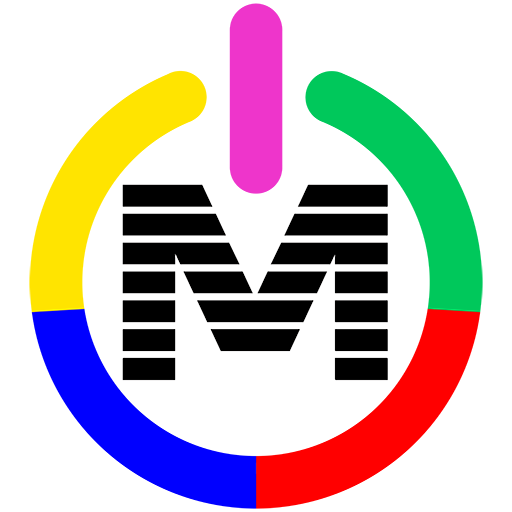
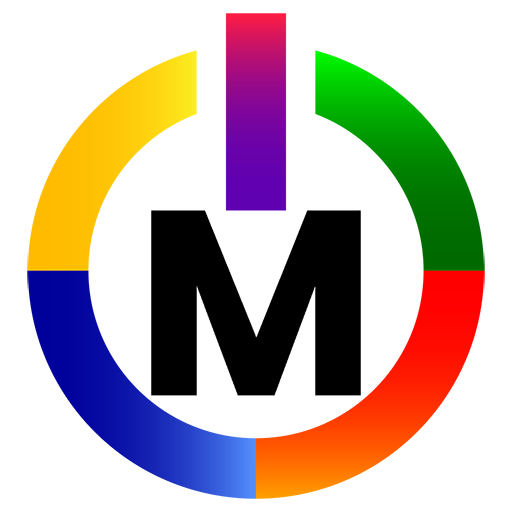
Add files via upload

diff --git a/httpdocs/index.html b/httpdocs/index.html
@@ -2,7 +2,7 @@
 <html lang="en" style="font-family: 'Poppins', sans-serif;">
 	<head>
 	    <title>MileniON Blockchain</title>
-      	<link rel="icon" href="img-fondo/img/icon.ico">
+      	<link rel="icon" href="img-fondo/img/icon.png">
 	    <meta charset="utf-8">
         <meta name="copyright" content="Copyright 2021. MileniON. All rights reserved.">
         <meta name="description" content="MileniON es una plataforma que pone a tu disposición todas las facilidades para
@@ -14,81 +14,27 @@
         <meta name="viewport" content="width=device-width, initial-scale=1.0, minimum-scale=1.0, maximum-scale=1.0, user-scalable=no">
 		<meta http-equiv="expires" content="0">
 		<link rel="stylesheet" type="text/css" href="https://fonts.googleapis.com/css?family=Poppins" />
+		<link rel="stylesheet" type="text/css" href="img-fondo/css/style.css" />
         <meta name="author" content="Santiago Soñora">
 	</head> 
-	<body>
-<style>
-    body {
-        background:#ffffff;
-    }
-  
-    #particles-js {
-        width:99.5%;
-        height:100%;       
-		position:absolute;
-        z-index:0;
-    }
-	 </style>
-        <div id="particles-js"></div>
+<body>
+    <div id="particles-js"></div>
     <script src="img-fondo/particles.js-master/particles.js"></script>
     <script src="img-fondo/particles.js-master/demo/js/app.js"></script>
 	<header>
-      <nav>
-      </nav>
+		<h2><img src="img-fondo/img/banner.png" title="MileniON" width="182.67" height="43.33" align="absbottom">  Blockchain</h2>
 	</header>
-    <article>
-      <section>   
-         <center>
-              <div>
-                <br><br><h2 style="position:relative; font-family: 'Poppins', sans-serif;"><img src="img-fondo/img/banner.png" title="MileniON" width="182.67" height="43.33" align="absbottom">  Blockchain</h2>              	
-              </div>
-              <div style="position:relative; text-align:center;">
-					<a href="http://mainnet.milenionblockchain.com:25000"  
-                            target="_blank" 
-                            title="Main Blockchain">
-                      <button style="border:0px solid black; background:#00ff00; opacity:0.8; cursor:pointer; border-radius:1%; margin:10px 5px; text-align:center;">
-                   		<h2 style="font-family: 'Poppins', sans-serif;">Mainnet</h2>
-                        <img src="img-fondo/img/verde.png" 
-                             width="286" 
-                             height="200" 
-                             title="Main Blockchain">
-					  </button></a>
-              		<a href="http://testnet.milenionblockchain.com:25000" 
-                            target="_blank" 
-                            title="Test Blockchain">
-                      <button style="border:0px solid black; background:#fe0000; opacity:0.8; cursor:pointer; border-radius:1%; margin:10px 5px; text-align:center;">
-                		<h2 style="font-family: 'Poppins', sans-serif;">Testnet</h2>
-                        <img src="img-fondo/img/rojo.png"
-                             style="opacity:0,7"
-                             width="286" 
-                             height="200" 
-                             title="Test Blockchain">
-                      </button></a>
-              </div>
-        </center>
-      </section>
-    </article>
-    <aside>
-    </aside>
+    <section>
+        <button onclick="window.open('http://mainnet.milenionblockchain.com:25000', '_blank')" class="btn btn1"><h2>Mainnet</h2></button>
+        <button onclick="window.open('http://testnet.milenionblockchain.com:25000', '_blank')" class="btn btn2"><h2>Testnet</h2></button>
+    </section>
+    <hr>
 	<footer>
-	<br><br>
-      <hr color="#DE359A" style="opacity:0.5">
-<br><br>
-      <center style="position:relative; font-family: 'Poppins', sans-serif;">
-                <a href="https://milenion.com"
-           target="_blank">
-        <button style="border:1px solid black; background:transparent; cursor:pointer; border-radius:1%; margin:5px 5px; text-align:center;">
-              <img src="img-fondo/img/icon.ico" 
-                   width="26" 
-                   height="26" 
-                   title= "Ir a milenion.com" 
-                   align="absmiddle">
-        </button></a>
-           <script>document.write(location.hostname)</script>   
-        <a href="mailto:s.sonora@milenion.com">Enviar e-mail</a>    
-      </center>
+		<button onclick="window.open('https://milenion.com', '_blank')" class="btn3"><img src="img-fondo/img/icon.png" width="26" height="26" title= "Ir a milenion.com" align="absmiddle"></button>
+		<script>document.write(location.hostname)</script>   
+		<a href="mailto:s.sonora@milenion.com">Enviar e-mail</a> 
 	</footer>
-    </body>
+</body>
 </html>
   
     

diff --git a/httpdocs/img-fondo/css/style.css b/httpdocs/img-fondo/css/style.css
@@ -1,8 +1,102 @@
-.box1, .box2 {
-  	width:250px;
-    height:250px;
-    background: red;
-    margin: auto;
-    border: 10px solid blue;
-    box-sizing: content-box;
+*
+{
+	font-family:'Poppins', sans-serif;
+}
+body
+{
+    background:#ffffff;
+}  
+#particles-js {
+    width:99.5%;
+    height:99vh;       
+	position:absolute;
+    z-index:0;
+}
+header
+{
+	text-align:center;
+	padding-top:200px;
+	padding-bottom:20px;
+	}
+section
+{
+	display: flex; 
+	align-items: center; 
+	justify-content: center;
+	padding-bottom:200px;
+}
+.btn
+{
+	border:0px solid black;
+	opacity:0.8; 
+	cursor:pointer; 
+	border-radius:1%; 
+	margin:10px 5px; 
+	padding:10px 100px 180px;
+	text-align:center;
+}
+.btn1
+{	 
+	background:#00ff00; 
+}
+.btn2
+{
+	background:#fe0000;
+}
+.btn3
+{ 
+	border:1px solid black; 
+	background:transparent; 
+	cursor:pointer; 
+	border-radius:1%; 
+	margin:5px 5px; 
+	text-align:center;
+}
+h2
+{
+	position:relative
+}
+hr
+{
+	 border:1px solid #DE359A;
+	 opacity:0.5;
+}
+footer
+{
+	display:flex;
+	justify-content:center;
+	align-items:center;
+	position:relative;
+	padding-top:40px;
+}
+@media only screen and (max-width: 600px)
+{
+	header
+	{
+		padding-top:10px;
+	}
+	section
+	{
+		flex-direction:column;
+		padding-bottom:30px;
+	}
+	footer
+	{
+		padding-top:30px;
+	}
+}
+@media only screen and (max-width: 400px)
+{
+	section .btn
+	{		 
+		padding:10px 50px 90px;
+	}
+	footer
+	{
+		flex-direction:column;
+	}
+	footer .btn3
+	{
+		margin-bottom:15px;
+	}
 }
